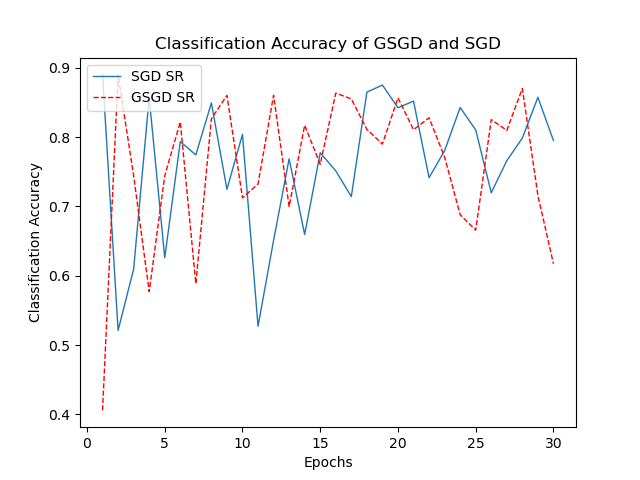
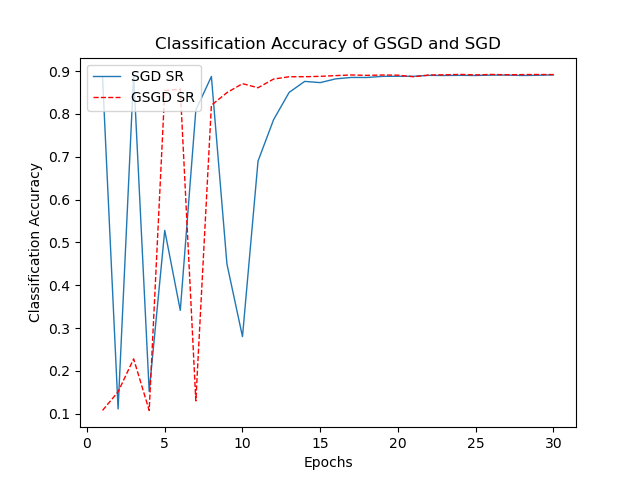
Something Really Good

diff --git a/Enhanced-ANN-GSGD/main.py b/Enhanced-ANN-GSGD/main.py
@@ -29,12 +29,20 @@ def GSGD_ANN(filePath):
     NC, x, y, N, d, xts, yts = readData(filePath)
     
     #model parameters
-    l_rate =  0.019987676959698759#0.0001#0.0002314354244#9.309681215145698e-15#3.0952770286463463e-07#0.0003314354244#0.00011852732093870824#0.00010926827346753853 #0.0002814354245#0.0002216960781458557#0.0002314354244 #0.000885 #0.061 #0.00025 #0.5
-    n_hidden = 300#36#29#50#36#4
+    l_rate =  0.02#0.019987676959698759#0.0001#0.0002314354244#9.309681215145698e-15#3.0952770286463463e-07#0.0003314354244#0.00011852732093870824#0.00010926827346753853 #0.0002814354245#0.0002216960781458557#0.0002314354244 #0.000885 #0.061 #0.00025 #0.5
+    n_hidden = 30#36#29#50#36#4
     lamda =  1e-06#0.5964800918102662#0.06067045242012771#1e-05#0.6980844659683136 #1e-06#0.0001  #Lambda will be used for L2 regularizaion
     betas = (0.9, 0.999)
     beta = 0.9
     epsilon = 1e-8
+
+    T = math.inf #number of batches to use in training. set to math.inf if all batches will be used in training
+    is_guided_approach = True
+    rho = 20
+    versetnum = 5 #number of batches used for verification
+    epochs = 30#27#15
+    revisitNum = 15
+    batch_size = 40#812#122#468#300#891#32
 
     optim_params = l_rate, lamda, betas, beta, epsilon
     optims = ['SGD', 'ADAM', 'ADADELTA', 'RMSPROP', 'ADAGRAD']
@@ -47,21 +55,13 @@ def GSGD_ANN(filePath):
     #initialize both networks #should have the same initial weights
     network_GSGD = nn.Sequential(
                       nn.Linear(d, n_hidden),
+                      nn.BatchNorm1d(n_hidden),
                       nn.Sigmoid(),
                       nn.Linear(n_hidden, 1),
                       nn.Sigmoid()).to(device=device)
     optimizer_GSGD = get_optimizer(network_GSGD, name=optim_name, cache= optim_params)
     network_SGD = copy.deepcopy(network_GSGD)
     optimizer_SGD = get_optimizer(network_SGD, name=optim_name, cache= optim_params)
-
-    # evaluate algorithm GSGD
-    T = math.inf #number of batches to use in training. set to math.inf if all batches will be used in training
-    is_guided_approach = True
-    rho = 15
-    versetnum = 5 #number of batches used for verification
-    epochs = 30#27#15
-    revisitNum = 10
-    batch_size = 30#812#122#468#300#891#32
 
     #evaluate GSGD
     cache = is_guided_approach, rho, versetnum,epochs, revisitNum, N, network_GSGD, optimizer_GSGD, T, batch_size
